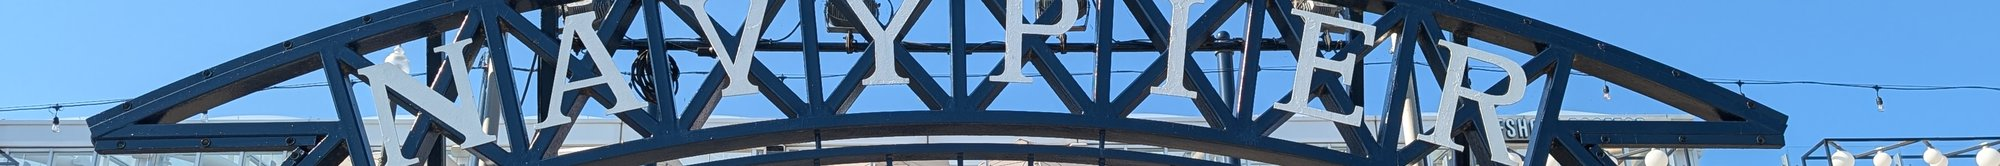
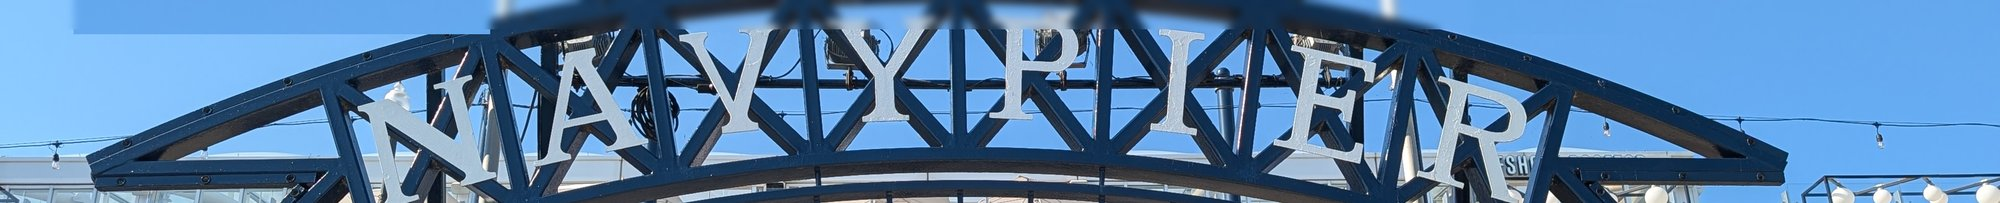
v4: bit of sky above the arch, antennae painted out
- Crop now: top=1040, bottom=1455 → 2000x203 banner
- Includes a thin strip of sky above the arch peak
- Antenna poles cloned out with clean sky patches
- Sky strip lightly Gaussian-blurred to smooth the paste seams
- Full NAVY PIER letters intact (N and R included)
- BEER GARDEN still cropped out

diff --git a/v4/index.html b/v4/index.html
@@ -130,7 +130,7 @@
 <main>
 
 <a class="hero-intro" href="https://navypier.org/" target="_blank" rel="noopener noreferrer" aria-label="Located at Navy Pier — visit navypier.org">
-  <img src="images/navy-pier-arch.jpg?v=tight-166" alt="Navy Pier entrance arch sign" width="2000" height="166">
+  <img src="images/navy-pier-arch.jpg?v=clean-sky" alt="Navy Pier entrance arch sign" width="2000" height="203">
 </a>
 
 <section class="hero" aria-label="Welcome">